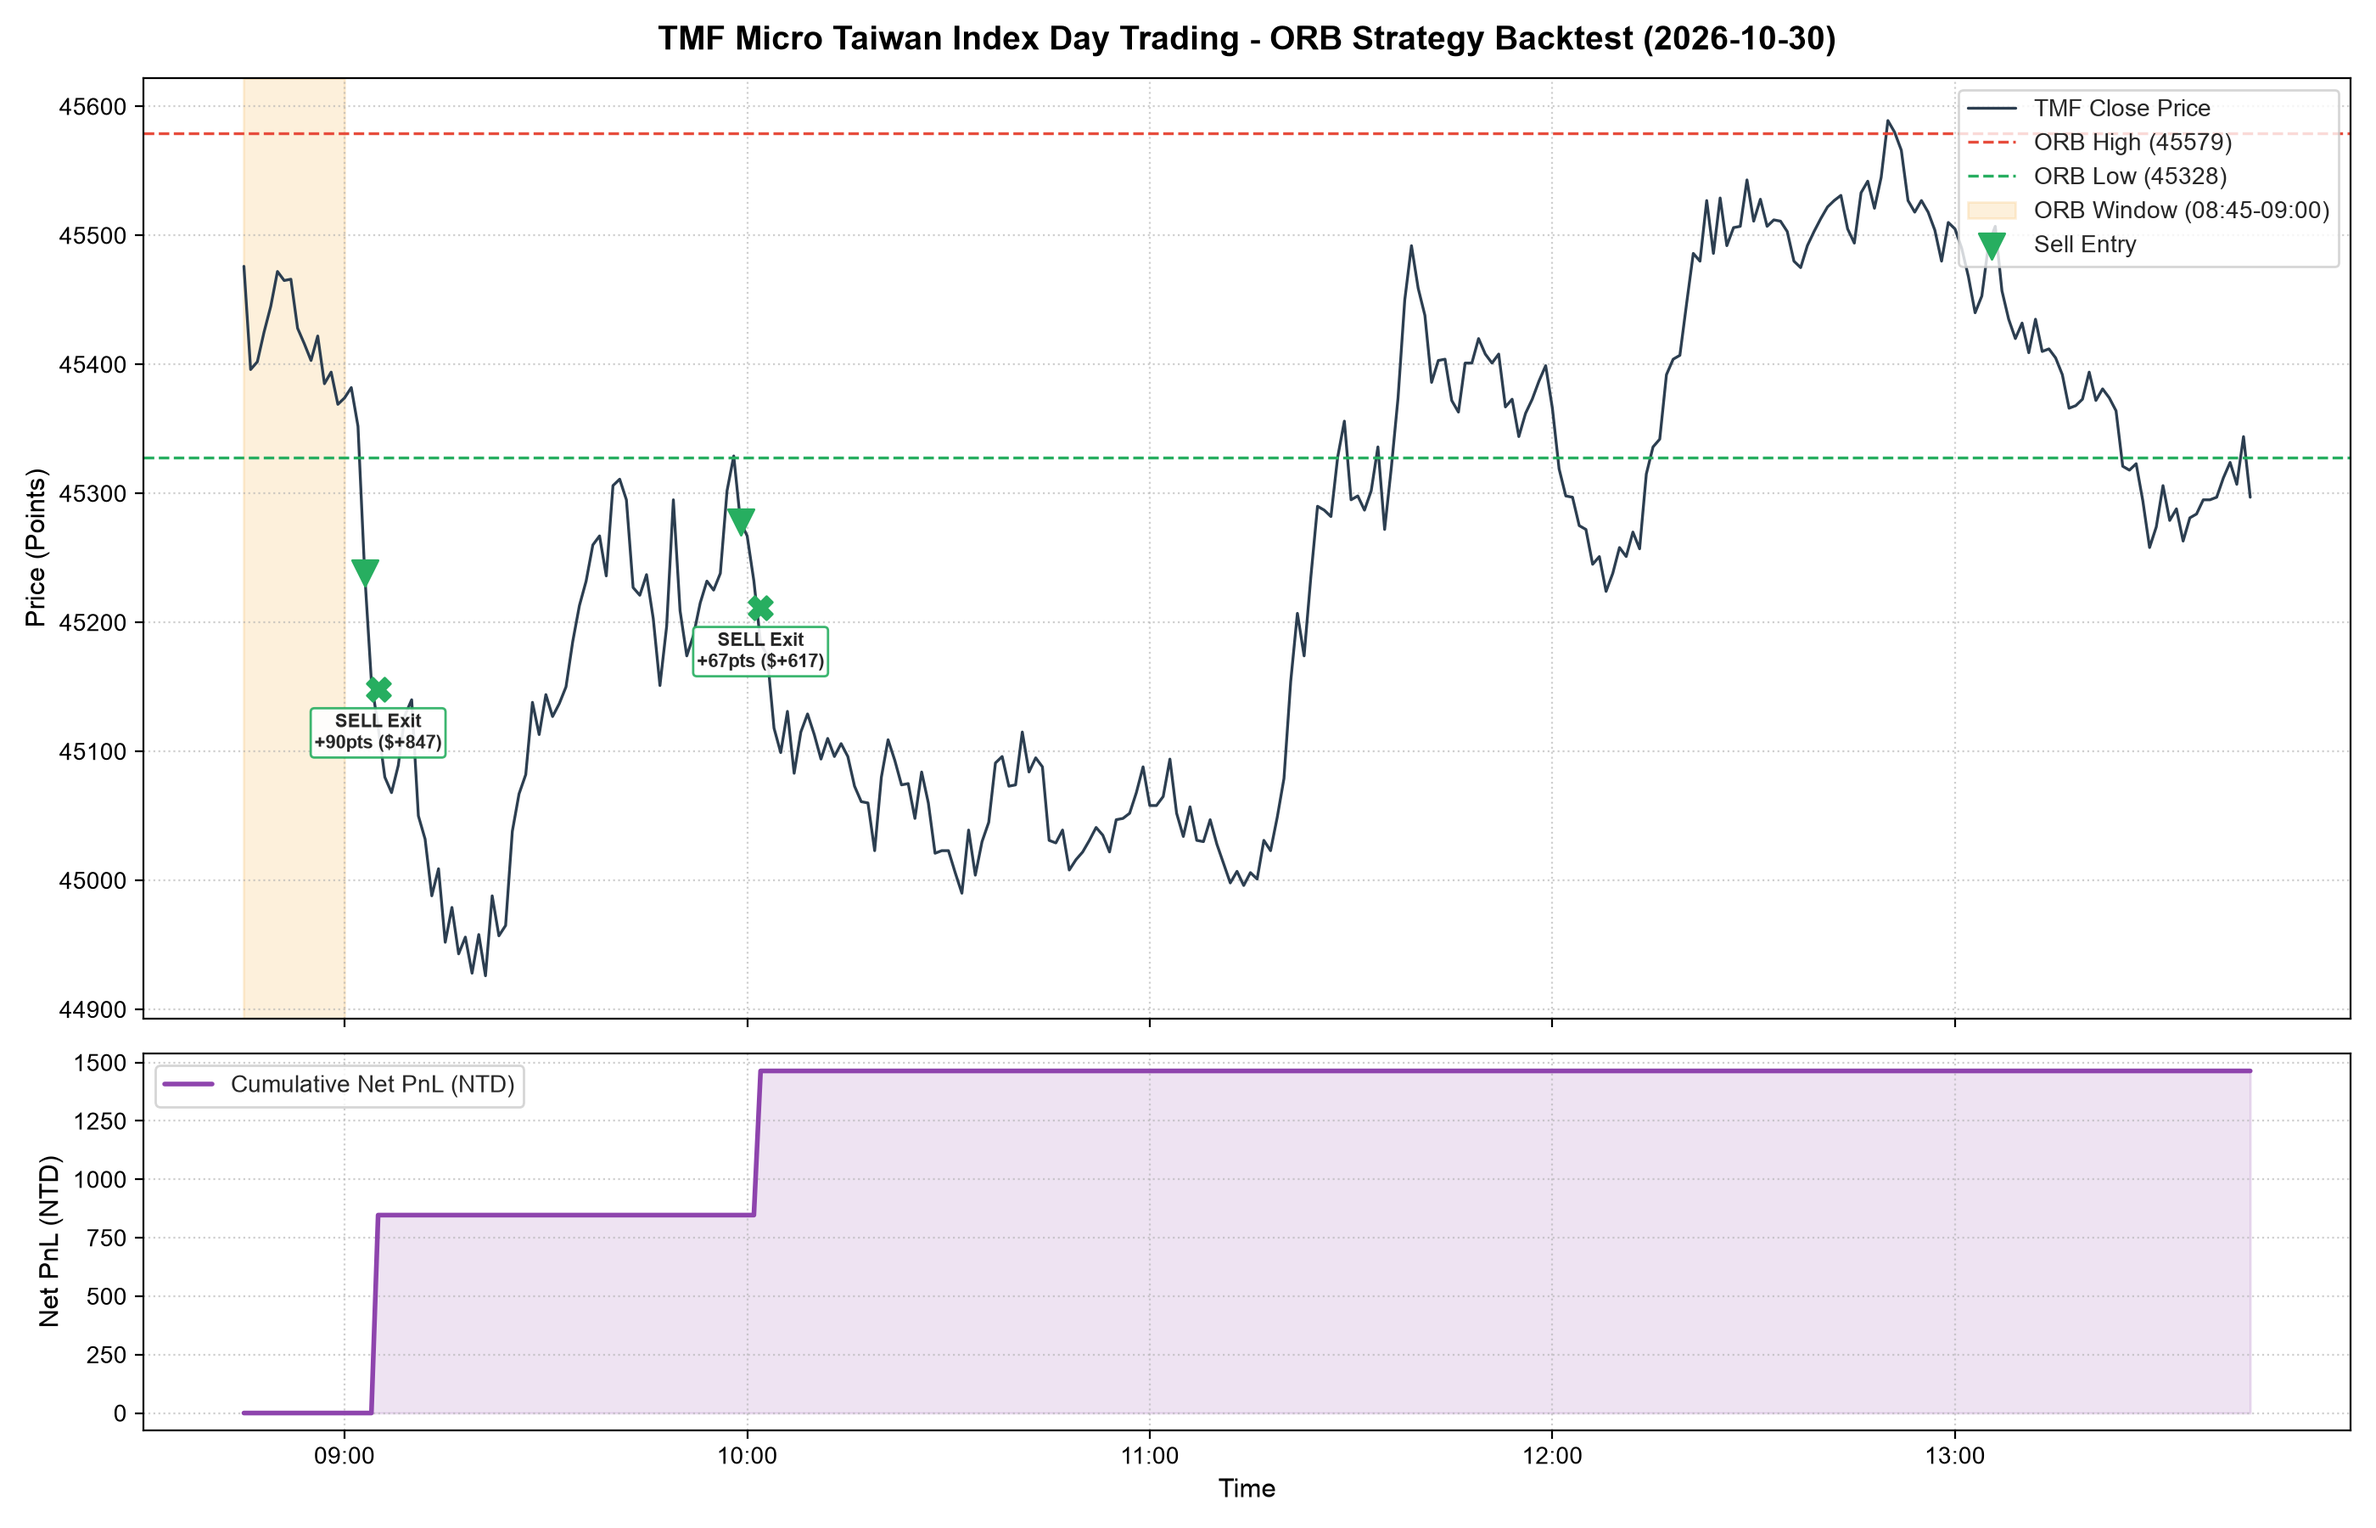
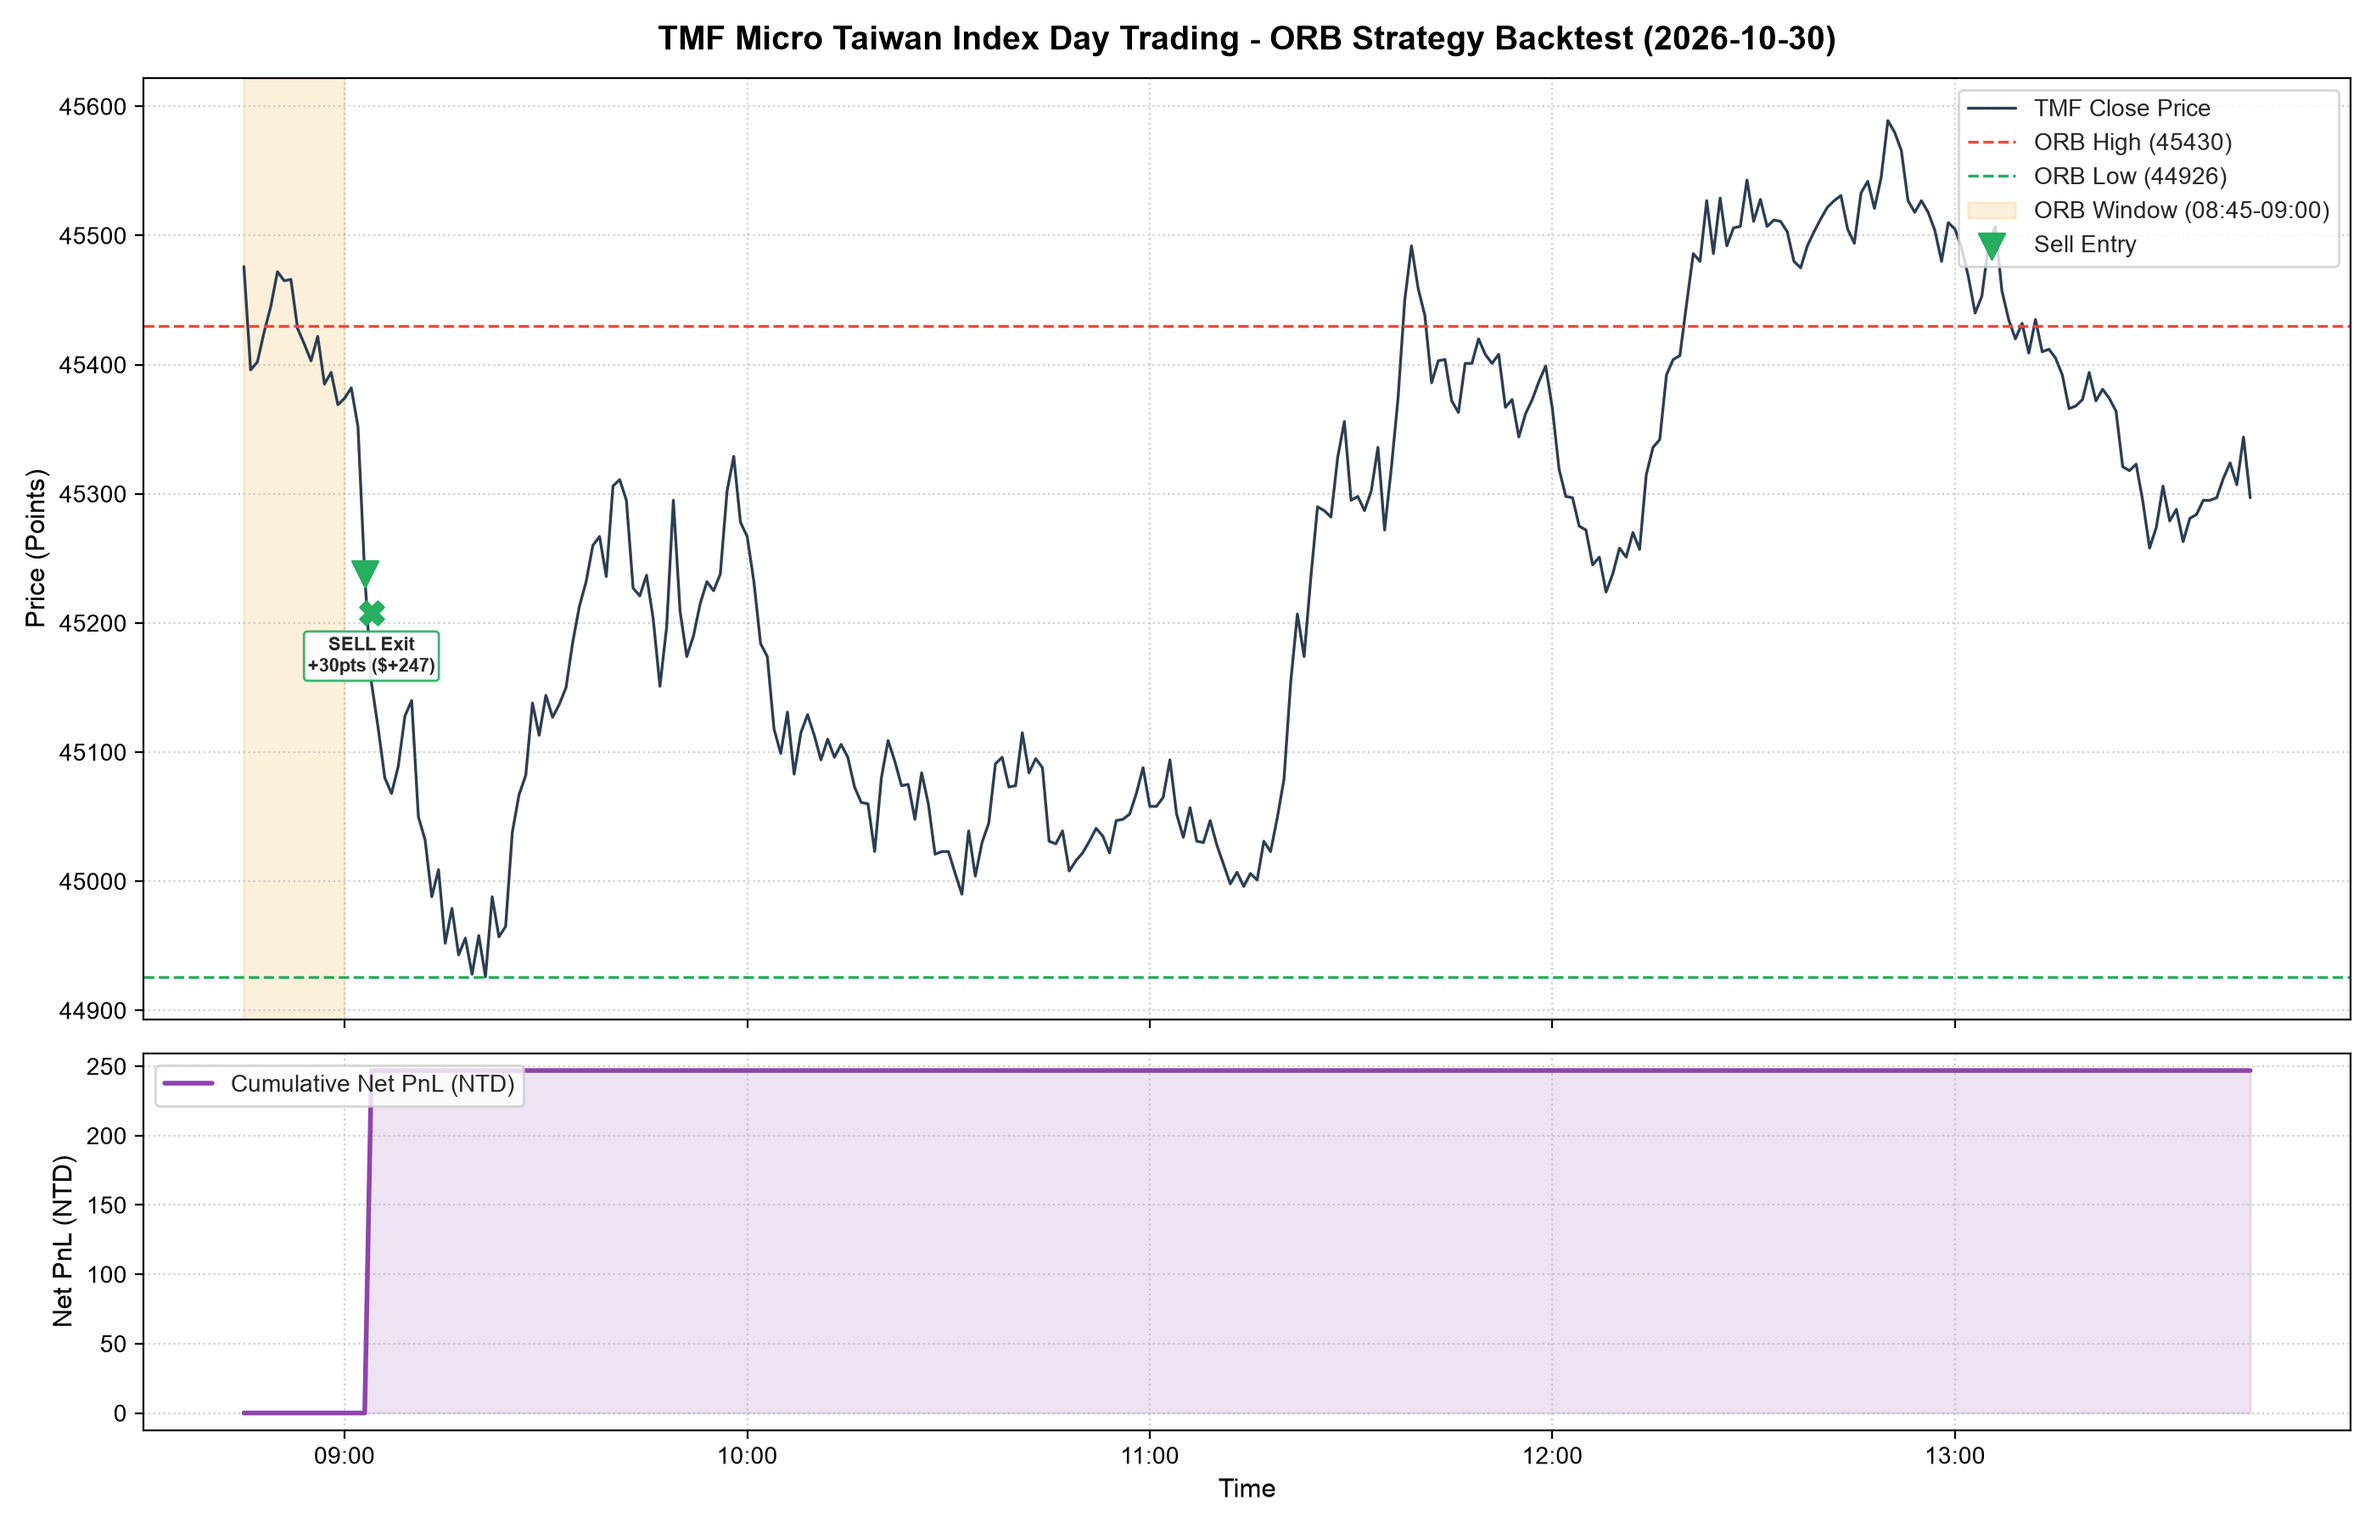
Update ORB Pro V2: add early super-momentum breakout & fix 0-trade metrics

diff --git a/tmf_daytrading/strategies/orb_strategy.py b/tmf_daytrading/strategies/orb_strategy.py
@@ -27,6 +27,8 @@ class ORBStrategy:
 
     def reset(self):
         """重置每日盤中狀態"""
+        self.pre_orb_high = None
+        self.pre_orb_low = None
         self.orb_high = None
         self.orb_low = None
         self.orb_calculated = False
@@ -48,7 +50,15 @@ class ORBStrategy:
         return df
 
     def calculate_orb_levels(self, kbars: pd.DataFrame):
-        """計算指定日期的現貨開盤區間高低點 (預設 09:00 ~ 09:15)"""
+        """計算指定日期的早盤區間 (08:45~09:00) 與現貨開盤區間 (09:00~09:15) 高低點"""
+        pre_bars = kbars.between_time(
+            self.config.pre_orb_start_time[:5],
+            self.config.pre_orb_end_time[:5]
+        )
+        if len(pre_bars) > 0:
+            self.pre_orb_high = float(pre_bars['high'].max())
+            self.pre_orb_low = float(pre_bars['low'].min())
+
         orb_bars = kbars.between_time(
             self.config.orb_start_time[:5], 
             self.config.orb_end_time[:5]
@@ -263,7 +273,42 @@ class ORBStrategy:
                         self.position = 0
                         return {"action": "EXIT", "record": trade_record}
 
-        # 3. 無部位時，檢查開盤突破 + VWAP & EMA 濾網進場信號
+        # 3A. 09:01 ~ 09:15 早盤強勢爆發突破進場 (防止如 10/30 現貨一開盤直接崩跌 500 點而錯失行情)
+        if (self.position == 0 and
+            self.pre_orb_high is not None and
+            self.trade_count < self.config.max_initial_trades and
+            "09:01:00" <= t_str <= self.config.orb_end_time):
+
+            long_filter = (not self.config.use_vwap_ema_filter) or (c > vwap and ema9 > ema21)
+            short_filter = (not self.config.use_vwap_ema_filter) or (c < vwap and ema9 < ema21)
+            sb = self.config.early_super_breakout_pts
+
+            if c >= (self.pre_orb_high + sb) and long_filter:
+                self.position = 1
+                self.entry_price = c
+                self.entry_time = ts
+                self.trade_count += 1
+                self.highest_profit = 0.0
+                return {
+                    "action": "BUY",
+                    "price": c,
+                    "time": ts,
+                    "detail": f"早盤強勢爆發突破 ({self.pre_orb_high}+{sb:.0f}點) + VWAP/EMA 多頭確認"
+                }
+            elif c <= (self.pre_orb_low - sb) and short_filter:
+                self.position = -1
+                self.entry_price = c
+                self.entry_time = ts
+                self.trade_count += 1
+                self.highest_profit = 0.0
+                return {
+                    "action": "SELL",
+                    "price": c,
+                    "time": ts,
+                    "detail": f"早盤強勢跳水突破 ({self.pre_orb_low}-{sb:.0f}點) + VWAP/EMA 空頭確認"
+                }
+
+        # 3B. 09:16 ~ 11:30 標準現貨開盤區間突破 + VWAP & EMA 濾網進場信號
         if (self.position == 0 and 
             self.orb_calculated and 
             self.trade_count < self.config.max_initial_trades and

diff --git a/tmf_daytrading/config.py b/tmf_daytrading/config.py
@@ -41,6 +41,9 @@ class InstrumentConfig:
 
 @dataclass
 class ORBStrategyConfig:
+    pre_orb_start_time: str = "08:45:00"     # 期貨早盤區間開始時間
+    pre_orb_end_time: str = "09:00:00"       # 期貨早盤區間結束時間
+    early_super_breakout_pts: float = 85.0   # 09:01~09:15 強勢爆發突破門檻 (超越早盤高低點達 85 點立即順勢進場，不漏掉早盤急殺/急拉行情)
     orb_start_time: str = "09:00:00"         # 現貨開盤區間開始時間 (09:00 台股現貨開盤)
     orb_end_time: str = "09:15:00"           # 現貨開盤區間結束時間 (09:00~09:15 關鍵區間)
     entry_start_time: str = "09:16:00"       # 允許突破進場開始時間

diff --git a/tmf_daytrading/backtester/metrics.py b/tmf_daytrading/backtester/metrics.py
@@ -13,10 +13,13 @@ class BacktestMetrics:
         if not trades:
             return {
                 "total_trades": 0,
+                "win_count": 0,
+                "loss_count": 0,
                 "win_rate": 0.0,
                 "total_points": 0.0,
                 "net_profit_ntd": 0.0,
                 "profit_factor": 0.0,
+                "avg_trade_ntd": 0.0,
                 "max_drawdown_pts": 0.0,
                 "max_drawdown_ntd": 0.0,
                 "trades_df": pd.DataFrame()
